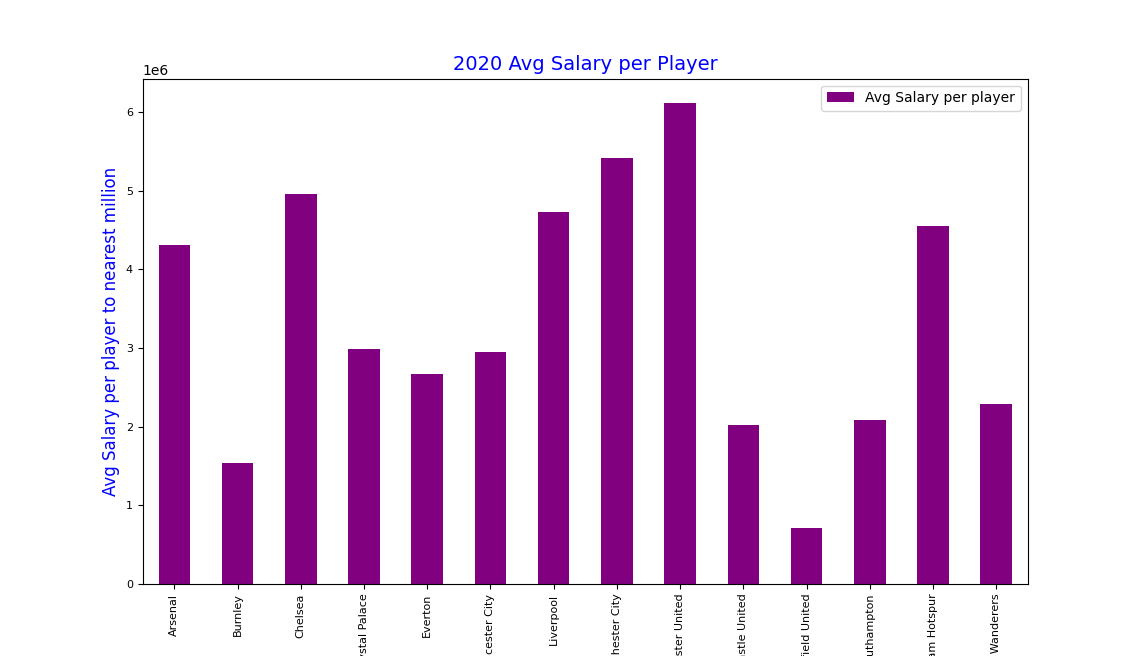
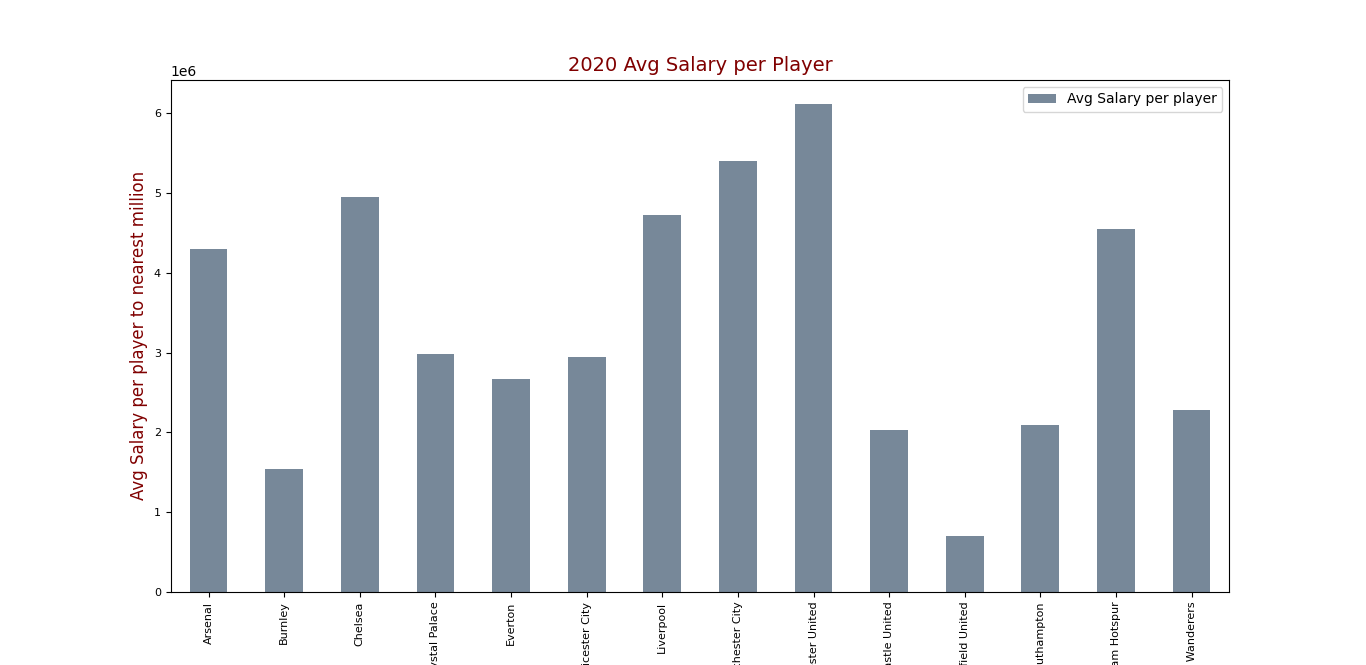
Updated charts

diff --git a/main.py b/main.py
@@ -136,10 +136,10 @@ def reuseableFunction(year):
         print("In 2020 the following team came in last in the Premier League")
         print(year20[['Team', 'Points', 'Est. Total Salary', 'PoundsSpentPerPoint']].tail(1))
     else:
-        print("No Value found - Exiting")
+       # print("No Value found - Exiting")
 
-inputYear = input("Please Enter in a Year ")
-reuseableFunction(inputYear)
+#inputYear = input("Please Enter in a Year ")
+#reuseableFunction(inputYear)
 
 #Create a Numpy Array based on DF Last Entry for Each Team
 #Grouped = pd.read_csv("Grouped_PLFF.csv")
@@ -160,51 +160,51 @@ reuseableFunction(inputYear)
 
 
 #Creating a Dictionary from Pandas Dataframe in Python for all clubs with over 40 points in 2020
-PLFF = pd.read_csv("Premier League - Football and Financial Performance - 2017 - 2020.csv")
-PLFF2=PLFF[(PLFF.Year>2019) & (PLFF.Points>40)]
-#print(PLFF2)
-my_dictionary=PLFF2.to_dict(orient = 'list')
-#print(my_dictionary)
+        PLFF = pd.read_csv("Premier League - Football and Financial Performance - 2017 - 2020.csv")
+    PLFF2=PLFF[(PLFF.Year>2019) & (PLFF.Points>40)]
+    print(PLFF2)
+    my_dictionary=PLFF2.to_dict(orient = 'list')
+    print(my_dictionary)
 
 #Generate Charts using Matplotlib
 #Subsetting Rows - Plot Top 5 Teams in 2020 Total Salary Expenditure
 PLFF = pd.read_csv("Premier League - Football and Financial Performance - 2017 - 2020.csv")
 DFF3=PLFF[(PLFF.Year>2019) & (PLFF.Points>60)]
 
-DFF3.plot(x ='Team', y='PoundsSpentPerPoint', kind = 'bar', color = 'green')
-plt.xlabel("Team", fontsize = 14, color="blue")
+DFF3.plot(x ='Team', y='PoundsSpentPerPoint', kind = 'bar', color = 'cyan')
+plt.xlabel("Team", fontsize = 14, color="midnightblue")
 plt.xticks(rotation=0)
-plt.ylabel("Pounds Spent Per Point to nearest Million", fontsize = 12, color="blue")
-plt.title('2020 Top 5 Teams - Expenditure per Point', fontsize = 12, color="blue")
-#plt.show()
+plt.ylabel("Pounds Spent Per Point to nearest Million", fontsize = 12, color="midnightblue")
+plt.title('2020 Top 5 Teams - Expenditure per Point', fontsize = 12, color="midnightblue")
+plt.show()
 
 #Subsetting Rows - Plot Top 5 Teams in 2019 Total Salary Expenditure
 PLFF = pd.read_csv("Premier League - Football and Financial Performance - 2017 - 2020.csv")
 DFF4=PLFF[(PLFF.Year==2019) & (PLFF.Points>68)]
 
-DFF4.plot(x ='Team', y='PoundsSpentPerPoint', kind = 'bar', color = 'blue')
-plt.xlabel("Team", fontsize = 14, color="blue")
-plt.xticks(rotation=0, color="red")
-plt.ylabel("Pounds Spent Per Point to nearest Million", fontsize = 12, color="blue")
-plt.title('2019 Top 5 Teams - Expenditure per Point', fontsize = 12, color="blue")
-#plt.show()
+DFF4.plot(x ='Team', y='PoundsSpentPerPoint', kind = 'bar', color = 'teal')
+plt.xlabel("Team", fontsize = 14, color="dimgrey")
+plt.xticks(rotation=0, color="darkslategrey")
+plt.ylabel("Pounds Spent Per Point to nearest Million", fontsize = 12, color="dimgrey")
+plt.title('2019 Top 5 Teams - Expenditure per Point', fontsize = 12, color="dimgrey")
+plt.show()
 
 #Group by Year and Suming TotalSalarys
 print(PLFF.groupby('Year')['Est. Total Salary'].sum())
 df1 = PLFF.groupby('Year')['Est. Total Salary'].sum()
-df1.plot(kind='bar',x='Year',y='Est. Total Salary',color='navy')
+df1.plot(kind='bar',x='Year',y='Est. Total Salary',color='maroon')
 plt.xticks(rotation=0, color="blue")
-plt.xlabel('Season 2017 - 2020', color="purple", fontsize=14)
-plt.ylabel('Total Salary Spent per Season to nearest Billion', color="purple")
-plt.title('Total Salary Spend Year on Year', fontsize = 14, color="purple")
-#plt.show()
+plt.xlabel('Season 2017 - 2020', color="darkred", fontsize=14)
+plt.ylabel('Total Salary Spent per Season to nearest Billion', color="darkred")
+plt.title('Total Salary Spend Year on Year', fontsize = 14, color="darkred")
+plt.show()
 
 PLFF = pd.read_csv("Premier League - Football and Financial Performance - 2017 - 2020.csv")
 DFF5=PLFF[(PLFF.Year>2019) & (PLFF.Points>40)]
 
-DFF5.plot(x ='Team', y='Avg Salary per player', kind = 'bar', color = 'purple', fontsize=8)
-plt.xlabel("Team", fontsize = 14, color="blue")
+DFF5.plot(x ='Team', y='Avg Salary per player', kind = 'bar', color = 'lightslategrey', fontsize=8)
+plt.xlabel("Team", fontsize = 14, color="maroon")
 plt.xticks(rotation=90)
-plt.ylabel("Avg Salary per player to nearest million", fontsize = 12, color="blue")
-plt.title('2020 Avg Salary per Player', fontsize = 14, color="blue")
+plt.ylabel("Avg Salary per player to nearest million", fontsize = 12, color="maroon")
+plt.title('2020 Avg Salary per Player', fontsize = 14, color="maroon")
 #plt.show()
